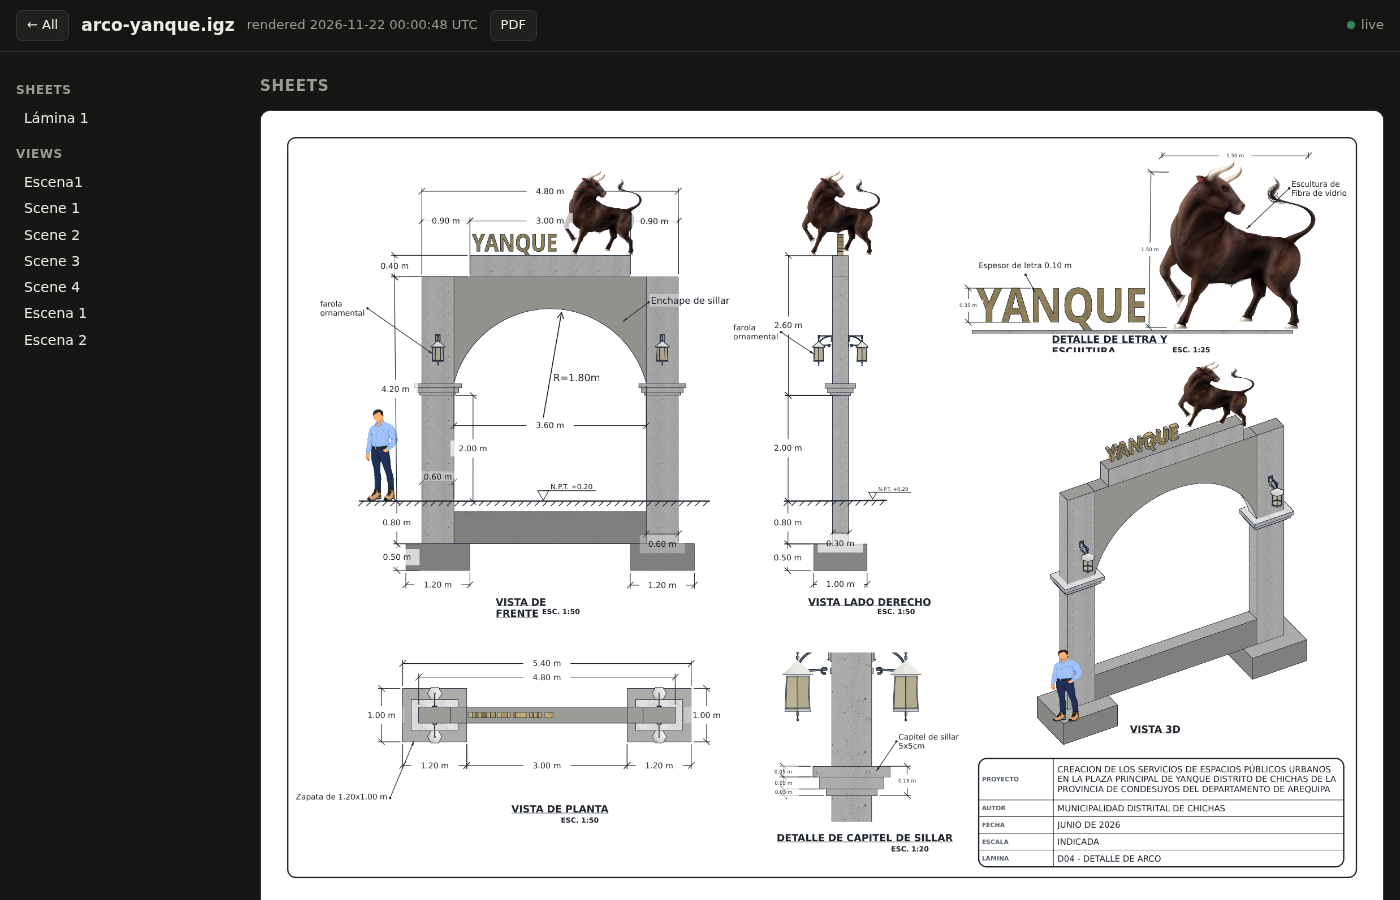
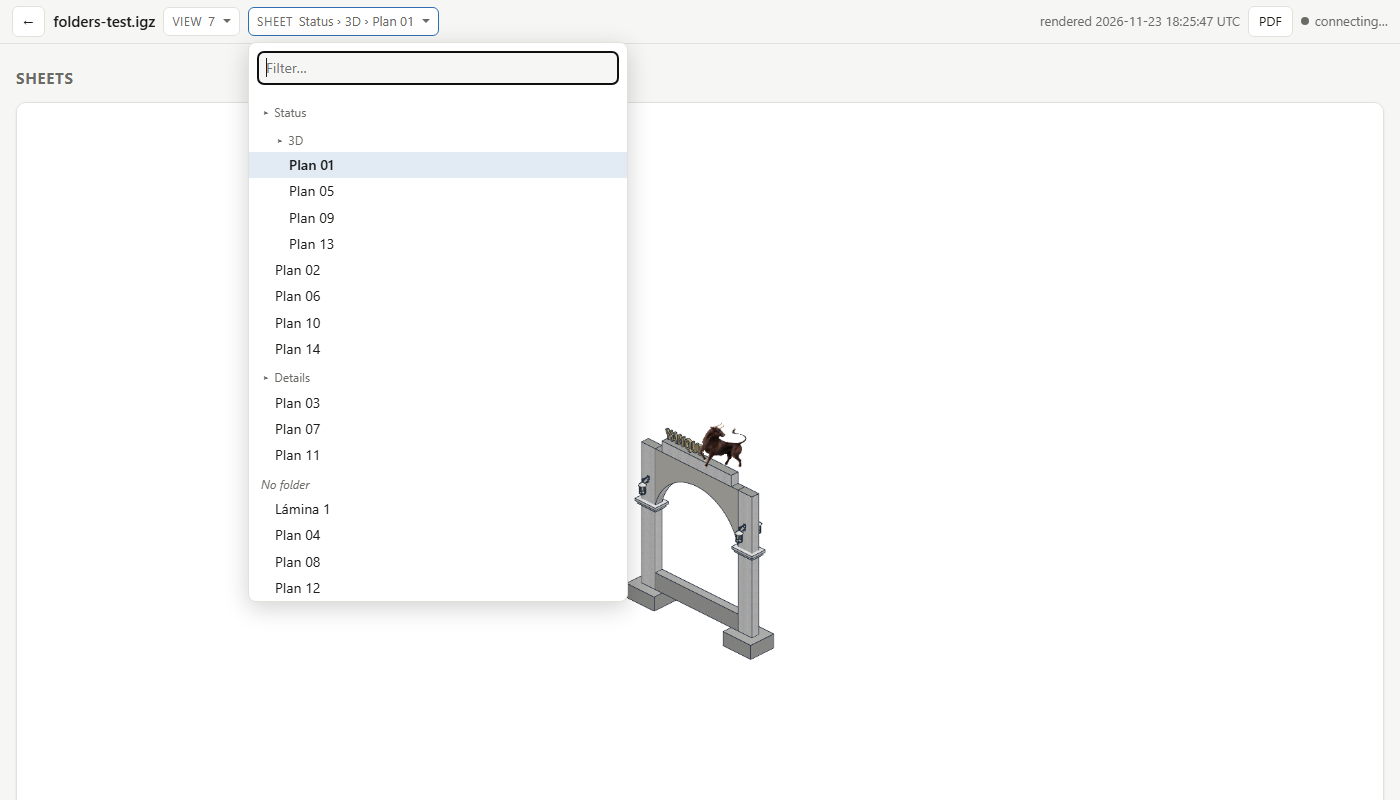
Viewer: a slim top bar with View and Sheet dropdowns
The sidebar lists of the model page give way to one slim bar at the top
with two dropdowns, View and Sheet (#4). Both show the model's folders as
a tree, nested sheet folders and nested scene folders alike, with the
entries outside any folder under "No folder", and a filter box once a
list is longer than eight entries. Closed, each shows the folder path of
the sheet or view on screen (scroll spy), e.g. Status › 3D › EG_delta.
On a phone the two dropdowns share a second row of the bar.

The renderer stores each sheet's and view's folder path as a list in
index.json. list_scenes names only a scene's innermost folder, so the
nesting is read with a read-only run_python; without it, the innermost
folder alone. Older index.json files with "A/B" strings still show.

diff --git a/viewer/server.py b/viewer/server.py
@@ -61,11 +61,28 @@ main{padding:16px;max-width:1500px;margin:0 auto}
 .card .thumb img{max-width:100%;max-height:100%;object-fit:contain}
 .card .body{padding:10px 12px}.card .name{font-weight:600;overflow-wrap:anywhere}
 .card .sub{color:var(--muted);font-size:13px}
-.layout{display:grid;grid-template-columns:220px 1fr;gap:24px}
-nav.toc{position:sticky;top:64px;align-self:start;max-height:calc(100vh - 80px);overflow:auto;font-size:14px}
-nav.toc h3{font-size:12px;text-transform:uppercase;letter-spacing:.05em;color:var(--muted);margin:14px 0 6px}
-nav.toc a{display:block;padding:3px 8px;border-radius:5px;color:var(--fg)}nav.toc a:hover{background:var(--card);text-decoration:none}
-nav.toc .folder{color:var(--muted);font-size:12px;padding:6px 8px 2px}
+header.bar{padding:6px 12px;gap:8px;flex-wrap:nowrap}
+header.bar h1{font-size:15px;white-space:nowrap;overflow:hidden;text-overflow:ellipsis;min-width:3em;max-width:22vw}
+.navs{display:flex;gap:8px;min-width:0;flex:0 1 auto}
+.dd{position:relative;min-width:0}
+.dd>summary{list-style:none;cursor:pointer;display:flex;align-items:center;gap:6px;max-width:38vw;
+border:1px solid var(--line);background:var(--card);padding:4px 8px;border-radius:6px;font-size:13px;white-space:nowrap;overflow:hidden}
+.dd>summary::-webkit-details-marker{display:none}
+.dd>summary::after{content:"";border:4px solid transparent;border-top-color:var(--muted);margin:4px 0 0 2px}
+.dd[open]>summary,.dd>summary:hover{border-color:var(--accent)}
+.dd .k{flex:none;color:var(--muted);font-size:12px;text-transform:uppercase;letter-spacing:.04em}
+.dd .cur{flex:0 1 auto;overflow:hidden;text-overflow:ellipsis;min-width:0}.dd>summary::after{flex:none}.dd .cur .p{color:var(--muted)}
+.dd-panel{position:absolute;top:calc(100% + 6px);left:0;z-index:10;width:min(380px,calc(100vw - 24px));
+max-height:min(70vh,560px);display:flex;flex-direction:column;background:var(--card);border:1px solid var(--line);
+border-radius:8px;box-shadow:0 6px 24px rgba(0,0,0,.18)}
+.dd-filter{margin:8px;padding:6px 8px;border:1px solid var(--line);border-radius:6px;background:var(--bg);color:var(--fg);font:inherit;font-size:14px}
+.dd-list{overflow:auto;padding:4px 0 8px;font-size:14px}
+.dd-list a,.dd-list .f{display:block;padding:3px 12px 3px calc(12px + var(--d,0) * 14px);white-space:nowrap;overflow:hidden;text-overflow:ellipsis}
+.dd-list a{color:var(--fg)}.dd-list a:hover{background:var(--bg);text-decoration:none}
+.dd-list a.on{background:color-mix(in srgb,var(--accent) 14%,transparent);font-weight:600}
+.dd-list .f{color:var(--muted);font-size:12px;padding-top:7px}.dd-list .f::before{content:"▸ "}
+.dd-list .none{font-style:italic}.dd-list .none::before{content:""}
+.dd-empty{color:var(--muted);padding:6px 12px;font-size:13px}
 section h2{font-size:15px;text-transform:uppercase;letter-spacing:.05em;color:var(--muted);margin:8px 0 12px}
 figure{margin:0 0 28px;background:var(--card);border:1px solid var(--line);border-radius:10px;overflow:hidden;box-shadow:var(--shadow)}
 figure a.img{display:block;background:var(--sheet)}
@@ -76,8 +93,11 @@ figcaption .muted,.muted{color:var(--muted);font-size:13px}
 .views figure{margin:0}
 .errors{background:color-mix(in srgb,var(--warn) 12%,var(--card));border:1px solid var(--warn);border-radius:8px;padding:8px 12px;margin-bottom:16px;font-size:13px}
 .empty{color:var(--muted);padding:40px 0;text-align:center}
-@media (max-width:820px){.layout{grid-template-columns:1fr}nav.toc{position:static;max-height:none}
-.views{grid-template-columns:1fr}}
+@media (max-width:820px){.views{grid-template-columns:1fr}
+header.bar{flex-wrap:wrap}header.bar h1{max-width:none;flex:1}header.bar .meta{display:none}
+.navs{order:9;flex:1 1 100%}.navs .dd{position:static;flex:1 1 0}.dd>summary{max-width:none}
+.dd .cur{flex:1 1 auto}
+.dd-panel{left:12px;width:auto;right:12px}}
 """
 
 JS = """
@@ -102,6 +122,76 @@ JS = """
     };
   }
   if (window.EventSource) connect();
+
+  // ---- the View / Sheet dropdowns of the top bar ----
+  const header = document.querySelector('header');
+  const dds = Array.from(document.querySelectorAll('details.dd'));
+  if (!dds.length) return;
+  function pad(){ document.documentElement.style.scrollPaddingTop = (header.offsetHeight + 8) + 'px'; }
+  pad(); window.addEventListener('resize', pad);
+  function closeAll(except){ dds.forEach(d => { if (d !== except) d.open = false; }); }
+  dds.forEach(dd => {
+    const filter = dd.querySelector('.dd-filter');
+    dd.addEventListener('toggle', () => {
+      if (!dd.open) return;
+      closeAll(dd);
+      const on = dd.querySelector('a.on');
+      if (on) on.scrollIntoView({block: 'nearest'});
+      if (filter && matchMedia('(pointer:fine)').matches) filter.focus();
+    });
+    dd.querySelectorAll('.dd-list a').forEach(a => a.addEventListener('click', () => {
+      dd.open = false; held = document.getElementById(a.getAttribute('href').slice(1)); show(a); }));
+    if (filter) filter.addEventListener('input', () => {
+      const q = filter.value.trim().toLowerCase();
+      const rows = Array.from(dd.querySelectorAll('.dd-list > *'));
+      let any = false;
+      rows.forEach(r => { if (r.tagName === 'A') {
+        const hit = !q || (r.dataset.folder + ' ' + r.textContent).toLowerCase().includes(q);
+        r.hidden = !hit; any = any || hit; } });
+      // A folder heading stays while something below it (deeper) is shown.
+      rows.forEach((r, i) => { if (r.tagName === 'A') return;
+        const d = +r.style.getPropertyValue('--d') || 0; let keep = false;
+        for (let j = i + 1; j < rows.length; j++) {
+          const rj = rows[j], dj = +rj.style.getPropertyValue('--d') || 0;
+          if (rj.tagName !== 'A' && dj <= d) break;
+          if (rj.tagName === 'A' && !rj.hidden) { keep = true; break; } }
+        r.hidden = !keep; });
+      dd.querySelector('.dd-empty').hidden = any;
+    });
+  });
+  document.addEventListener('click', (e) => { if (!e.target.closest('details.dd')) closeAll(null); });
+  document.addEventListener('keydown', (e) => { if (e.key === 'Escape') closeAll(null); });
+
+  // Scroll spy: the sheet or view on screen is the current one of its dropdown.
+  function show(a){
+    const dd = a.closest('details.dd');
+    dd.querySelectorAll('a.on').forEach(x => x.classList.remove('on'));
+    a.classList.add('on');
+    const cur = dd.querySelector('.cur'); cur.textContent = '';
+    if (a.dataset.folder) { const p = document.createElement('span'); p.className = 'p';
+      p.textContent = a.dataset.folder + ' \\u203a '; cur.appendChild(p); }
+    cur.appendChild(document.createTextNode(a.textContent));
+    cur.title = (a.dataset.folder ? a.dataset.folder + ' \\u203a ' : '') + a.textContent;
+  }
+  const figs = Array.from(document.querySelectorAll('figure[id]'));
+  let last = null, queued = false, held = null;
+  function spy(){
+    queued = false;
+    const top = header.offsetHeight + 40;
+    // A picked entry stays current while it is on screen, even when the
+    // page cannot scroll it up to the top (the last ones).
+    if (held) { const r = held.getBoundingClientRect();
+      if (r.bottom > top && r.top < innerHeight) { last = held; return; } held = null; }
+    let cur = figs[0];
+    for (const f of figs) { if (f.getBoundingClientRect().top <= top) cur = f; else break; }
+    if (!cur || cur === last) return;
+    last = cur;
+    const a = document.querySelector('.dd-list a[href="#' + cur.id + '"]');
+    if (a) show(a);
+  }
+  window.addEventListener('scroll', () => { if (!queued) { queued = true; requestAnimationFrame(spy); } },
+                          {passive: true});
+  spy();
 })();
 """
 
@@ -109,11 +199,12 @@ JS = """
 LOGOUT = '<a class="btn" href="/logout">Log out</a>'
 
 
-def _page(title: str, header: str, body: str, slug: str | None = None) -> bytes:
+def _page(title: str, header: str, body: str, slug: str | None = None,
+          bar: bool = False) -> bytes:
     return f"""<!doctype html><html lang="en"><head><meta charset="utf-8">
 <meta name="viewport" content="width=device-width,initial-scale=1">
 <title>{escape(title)}</title><style>{CSS}</style></head>
-<body data-slug="{escape(slug or '')}"><header>{header}<span class="spacer"></span>
+<body data-slug="{escape(slug or '')}"><header{' class="bar"' if bar else ''}>{header}{'' if bar else '<span class="spacer"></span>'}
 <span id="live" class="live"><i></i><span>connecting…</span></span>{LOGOUT if PASSWORD else ""}</header>
 <main>{body}</main><script>{JS}</script></body></html>""".encode("utf-8")
 
@@ -128,6 +219,60 @@ def _count(n: int, word: str) -> str:
 
 def _file_url(index: dict, file: str) -> str:
     return f"/files/{quote(index['slug'])}/{quote(index['rev'])}/{quote(file)}"
+
+
+SEP = " › "
+#: More entries than this and a dropdown gets a filter box.
+FILTER_FROM = 8
+
+
+def _folder(item: dict) -> list[str]:
+    """An entry's folder path, top first. Older renders stored "A/B"."""
+    f = item.get("folder")
+    if isinstance(f, list):
+        return [str(p) for p in f if str(p).strip()]
+    return [p for p in str(f or "").split("/") if p.strip()]
+
+
+def _dropdown(label: str, entries: list[tuple[str, str, list[str]]]) -> str:
+    """One dropdown of the top bar: ``entries`` are (anchor, name, folder
+    path) in document order, shown as a folder tree – in each folder its
+    subfolders first, then its entries, as IngeTrazo's explorers do; the
+    entries outside any folder come last, under "No folder"."""
+    if not entries:
+        return ""
+    tree: dict = {"sub": {}, "items": []}
+    for anchor, name, path in entries:
+        node = tree
+        for part in path:
+            node = node["sub"].setdefault(part, {"sub": {}, "items": []})
+        node["items"].append((anchor, name, path))
+    rows: list[str] = []
+
+    def item(anchor: str, name: str, path: list[str], depth: int) -> None:
+        rows.append(f'<a href="#{anchor}" style="--d:{depth}" '
+                    f'data-folder="{escape(SEP.join(path))}">{escape(name)}</a>')
+
+    def walk(node: dict, depth: int) -> None:
+        for name, sub in node["sub"].items():
+            rows.append(f'<div class="f" style="--d:{depth}">{escape(name)}</div>')
+            walk(sub, depth + 1)
+        if depth:
+            for e in node["items"]:
+                item(*e, depth)
+
+    walk(tree, 0)
+    if tree["items"]:
+        if tree["sub"]:
+            rows.append('<div class="f none" style="--d:0">No folder</div>')
+        for e in tree["items"]:
+            item(*e, 1 if tree["sub"] else 0)
+    filt = ('<input class="dd-filter" type="search" placeholder="Filter…" '
+            f'aria-label="Filter {escape(label.lower())}s">' if len(entries) > FILTER_FROM else "")
+    return (f'<details class="dd"><summary><span class="k">{escape(label)}</span>'
+            f'<span class="cur muted">{len(entries)}</span></summary>'
+            f'<div class="dd-panel">{filt}<div class="dd-list">{"".join(rows)}</div>'
+            '<div class="dd-empty" hidden>Nothing matches.</div></div></details>')
 
 
 def overview() -> bytes:
@@ -163,17 +308,13 @@ def model_page(slug: str) -> bytes | None:
             return _page(TITLE, f'<a class="btn" href="/">← All models</a>',
                          '<p class="empty">Rendering… this page refreshes when it is done.</p>', slug)
         return None
-    toc, sheets_html = [], []
-    folder = None
+    sheet_nav, view_nav, sheets_html = [], [], []
     for i, s in enumerate(idx.get("sheets", [])):
         anchor = f"sheet-{i}"
-        if s.get("folder") != folder:
-            folder = s.get("folder")
-            if folder:
-                toc.append(f'<div class="folder">{escape(folder)}</div>')
-        toc.append(f'<a href="#{anchor}">{escape(s["name"])}</a>')
+        path = _folder(s)
+        sheet_nav.append((anchor, s["name"], path))
         extra = "" if s.get("printed", True) else ' <span class="muted">(not printed)</span>'
-        where = f'<span class="muted">{escape(s["folder"])}</span>' if s.get("folder") else ""
+        where = f'<span class="muted">{escape(SEP.join(path))}</span>' if path else ""
         if s.get("file"):
             url = _file_url(idx, s["file"])
             img = f'<a class="img" href="{url}" target="_blank"><img src="{url}" alt="{escape(s["name"])}" loading="lazy"></a>'
@@ -182,17 +323,15 @@ def model_page(slug: str) -> bytes | None:
         sheets_html.append(f'<figure id="{anchor}">{img}<figcaption><strong>{escape(s["name"])}</strong>'
                            f'{extra}<span class="spacer"></span>{where}</figcaption></figure>')
     views_html = []
-    if idx.get("views"):
-        toc.append('<h3>Views</h3>')
     for i, v in enumerate(idx.get("views", [])):
         anchor = f"view-{i}"
-        toc.append(f'<a href="#{anchor}">{escape(v["name"])}</a>')
+        path = _folder(v)
+        view_nav.append((anchor, v["name"], path))
+        where = f'<span class="spacer"></span><span class="muted">{escape(SEP.join(path))}</span>' if path else ""
         url = _file_url(idx, v["file"])
         views_html.append(f'<figure id="{anchor}"><a class="img" href="{url}" target="_blank">'
                           f'<img src="{url}" alt="{escape(v["name"])}" loading="lazy"></a>'
-                          f'<figcaption><strong>{escape(v["name"])}</strong></figcaption></figure>')
-    if sheets_html:
-        toc.insert(0, '<h3>Sheets</h3>')
+                          f'<figcaption><strong>{escape(v["name"])}</strong>{where}</figcaption></figure>')
     errors = ""
     if idx.get("errors"):
         errors = ('<div class="errors"><strong>Some parts did not render:</strong><br>'
@@ -206,10 +345,12 @@ def model_page(slug: str) -> bytes | None:
         content += '<p class="empty">This model has no sheets and no saved views.</p>'
     pdf = (f'<a class="btn" href="{_file_url(idx, idx["pdf"])}" target="_blank">PDF</a>'
            if idx.get("pdf") else "")
-    header = (f'<a class="btn" href="/">← All</a><h1>{escape(idx["name"])}</h1>'
-              f'<span class="meta">rendered {_when(idx)}</span>{pdf}')
-    body = f'<div class="layout"><nav class="toc">{"".join(toc)}</nav><div>{content}</div></div>'
-    return _page(f'{idx["name"]} – {TITLE}', header, body, slug)
+    navs = _dropdown("View", view_nav) + _dropdown("Sheet", sheet_nav)
+    header = (f'<a class="btn" href="/" title="All models">←</a>'
+              f'<h1 title="{escape(idx["name"])}">{escape(idx["name"])}</h1>'
+              + (f'<nav class="navs">{navs}</nav>' if navs else "")
+              + f'<span class="spacer"></span><span class="meta">rendered {_when(idx)}</span>{pdf}')
+    return _page(f'{idx["name"]} – {TITLE}', header, content, slug, bar=True)
 
 
 COOKIE = "itz_viewer"

diff --git a/viewer/render.py b/viewer/render.py
@@ -48,6 +48,36 @@ def _now() -> str:
     return datetime.now(timezone.utc).isoformat(timespec="seconds")
 
 
+def _path(folder) -> list[str]:
+    """A folder as the app reports it ("A/B", a list, or nothing) as a list
+    of names, top first."""
+    if isinstance(folder, (list, tuple)):
+        return [str(p) for p in folder if str(p).strip()]
+    return [p for p in str(folder or "").split("/") if p.strip()]
+
+
+_MARK = "@@itz-viewer@@"
+#: Read-only: each saved view's folder path, walking the Scenes tab's
+#: nesting (core.scene_folders). Runs in a function so it leaves nothing
+#: behind in the app's Python scope.
+_SCENE_FOLDERS = f"""
+def _itz_viewer_paths():
+    import json
+    from core import scene_folders as sf
+    out = {{}}
+    for v in scene.saved_views:
+        path, f, seen = [], sf.folder_of(scene, v), set()
+        while f and f not in seen:
+            seen.add(f)
+            path.insert(0, f)
+            f = sf.folder_parent(scene, f)
+        out[v.name] = path
+    print({_MARK!r} + json.dumps(out, ensure_ascii=False))
+_itz_viewer_paths()
+del _itz_viewer_paths
+"""
+
+
 class Renderer:
     def __init__(self, app: App) -> None:
         self.app = app
@@ -151,12 +181,15 @@ class Renderer:
                         index["pdf"] = "sheets.pdf"
                     except RuntimeError as exc:
                         index["errors"].append(f"PDF: {exc}")
-            for i, view in enumerate(info.get("views") or []):
+            views = list(info.get("views") or [])
+            folders = self._view_folders() if views else {}
+            for i, view in enumerate(views):
                 file = f"view-{i:02d}.png"
                 try:
                     self._call("export_view", {"view": view, "path": str(out / file),
                                                "width": VIEW_W, "height": VIEW_H})
-                    index["views"].append({"name": view, "file": file})
+                    index["views"].append({"name": view, "file": file,
+                                           "folder": folders.get(view, [])})
                 except RuntimeError as exc:
                     index["errors"].append(f"view {view}: {exc}")
         except Exception as exc:
@@ -177,21 +210,42 @@ class Renderer:
         self._notify({"slug": slug, "rev": rev})
 
     def _sheet_list(self, info: dict) -> list[dict]:
-        """Every sheet in document order, with its folder and print flag
-        when the app reports them."""
+        """Every sheet in document order, with its folder path (a list of
+        names, top first) and print flag when the app reports them."""
         names = list(info.get("sheets") or [])
         if not names:
             return []
         try:
             listed = self._call("list_sheets")
-            rows = listed.get("sheets") if isinstance(listed, dict) else None
+            rows = listed.get("sheets") if isinstance(listed, dict) else listed
             if isinstance(rows, list) and len(rows) == len(names):
-                return [{"name": r.get("name", n), "folder": r.get("folder") or "",
+                return [{"name": r.get("name", n), "folder": _path(r.get("folder")),
                          "printed": r.get("printed", r.get("print_in_all", True))}
                         for r, n in zip(rows, names)]
         except RuntimeError:
             pass
-        return [{"name": n, "folder": "", "printed": True} for n in names]
+        return [{"name": n, "folder": [], "printed": True} for n in names]
+
+    def _view_folders(self) -> dict[str, list[str]]:
+        """Saved view name → its folder path (top first). ``list_scenes``
+        names only the innermost folder, so the nesting is read from the
+        document (read-only); without it, the innermost folder alone."""
+        try:
+            reply = self._call("run_python", {"code": _SCENE_FOLDERS})
+            if not reply.get("error"):
+                for line in (reply.get("stdout") or "").splitlines():
+                    if line.startswith(_MARK):
+                        got = json.loads(line[len(_MARK):])
+                        return {str(k): [str(p) for p in v] for k, v in got.items()}
+        except (RuntimeError, ValueError, AttributeError):
+            pass
+        try:
+            listed = self._call("list_scenes")
+            rows = listed.get("scenes") if isinstance(listed, dict) else listed
+            return {r["name"]: _path(r.get("folder")) for r in rows or []
+                    if isinstance(r, dict) and "name" in r}
+        except (RuntimeError, KeyError, TypeError):
+            return {}
 
     def _render_sheets(self, out: Path, sheets: list[dict]) -> tuple[list, list]:
         errors: list[str] = []

diff --git a/README.md b/README.md
@@ -7,7 +7,9 @@ container**:
   query, render and save documents. The tools are IngeTrazo's own (`run_python`, `query_model`, `screenshot`,
   sheets, views, export, …), plus `list_documents` for the data folder.
 - **Live viewer (optional)**: a read-only web page with every **sheet** and every **saved view** of every model
-  in the data folder. It re-renders and refreshes the page by itself when a file changes.
+  in the data folder. It re-renders and refreshes the page by itself when a file changes. A slim top bar has a
+  **View** and a **Sheet** dropdown with the model's folders (nested too) and a filter; each shows the folder path
+  of the sheet or view on screen.
 - **Your models stay in a folder you mount**, e.g. `./data` on the host.
 
 IngeTrazo itself is not modified: the image builds it from a git ref on GitHub.
